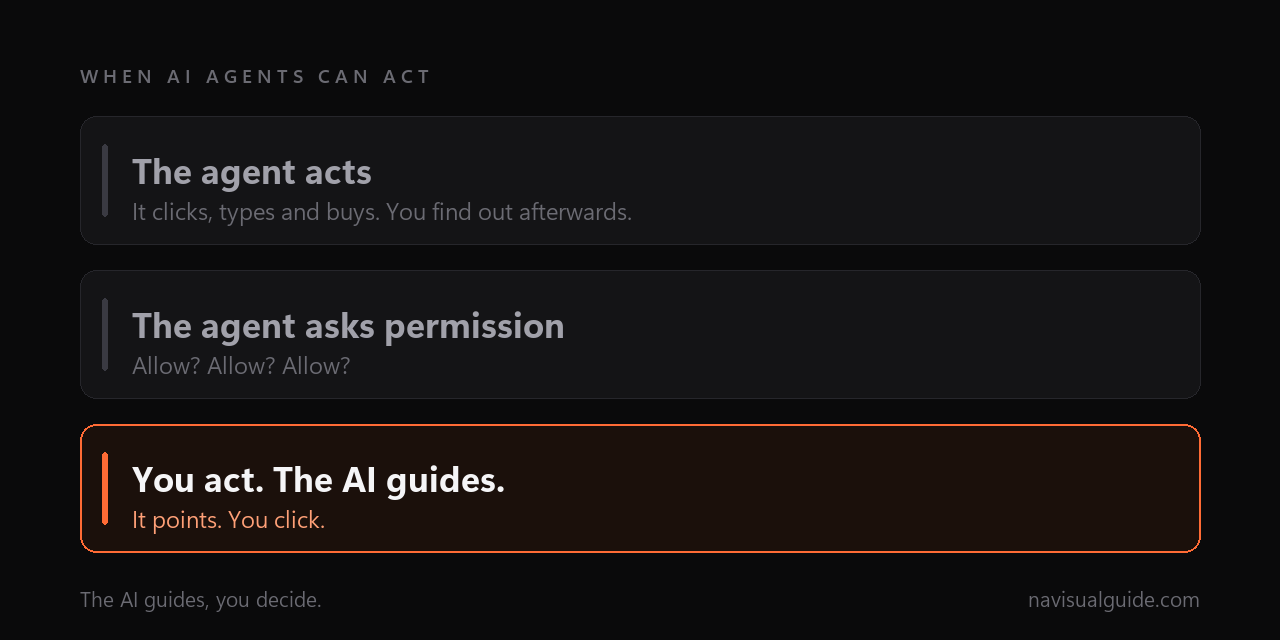
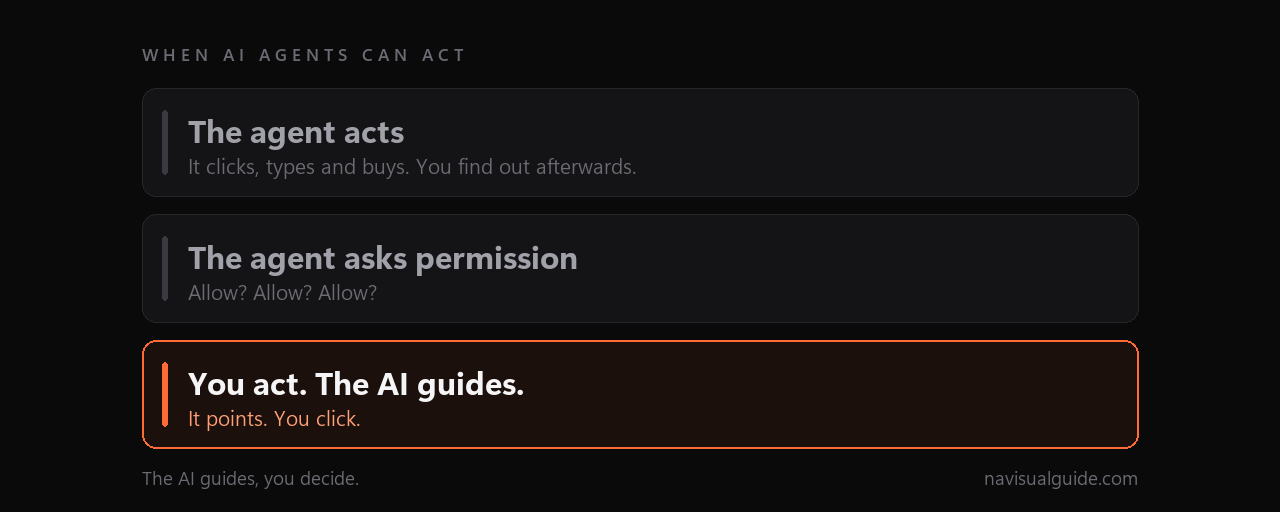
fix(guides): the hero was drawn for a frame the site does not have
The listing thumbnail is `aspect-ratio: 5/2` with `object-fit: cover;
object-position: center top`. That is the right rule for a screenshot --
the top of the frame is where the open dialog and the highlighted control
are -- but the hero was 2:1, so the listing cut the bottom 20%, and the
bottom 20% was the lit row. The picture lost the one thing it was drawn
to say.

The canvas is now 5:2, the thumbnail frame exactly, so nothing is cropped.

hero_image also feeds og:image and twitter:image, and X centre-crops
anything wider than 2:1 back to 2:1, which on a 5:2 canvas takes 128px off
each side. All content now sits inside that safe width, so the share card
loses margin and nothing else. Both crops verified by rendering them.

diff --git a/tools/make-hero.py b/tools/make-hero.py
@@ -2,17 +2,31 @@
 
 Draws the argument the essay makes, which is the three positions: the agent
 acts, the agent asks permission, or you act and the AI guides. Two greyed, one
-lit. Site palette, 1280x640 to match social-preview.png.
+lit. Site palette.
+
+TWO CROPS DECIDE THE GEOMETRY, and the first version ignored both.
+
+  1. The listing thumbnail (.guide-thumb img, style.css) is `aspect-ratio: 5/2`
+     with `object-fit: cover; object-position: center top`. That is right for a
+     screenshot, where the top of the frame is the action. On a 2:1 image it ate
+     the bottom 20%, which here is the lit row -- the whole point of the picture.
+     So the canvas IS 5:2. Nothing is cropped on the listing.
+
+  2. hero_image also feeds og:image and twitter:image. X center-crops anything
+     wider than 2:1 back to 2:1, which on a 5:2 canvas removes 128px from each
+     side. So all content stays inside SAFE_X, and the card loses only margin.
 
 Run: python tools/make-hero.py  (needs Pillow; uses the Windows Segoe UI
 variable font, whose named instances are "Bold Text" etc., not "Bold" --
-set_variation_by_name fails SILENTLY on a wrong name, so the axes are set
-directly instead.)
+set_variation_by_name fails SILENTLY on a wrong name, so every weight renders
+at 400 and the hierarchy quietly vanishes. The axes are set directly instead.)
 """
 import os
 from PIL import Image, ImageDraw, ImageFont
 
-W, H = 1280, 640
+W, H = 1280, 512          # 5:2, the thumbnail frame exactly
+SAFE = 128 + 14           # survives a centred 2:1 share-card crop, with margin
+
 BG = "#0a0a0b"
 SURFACE = "#141416"
 BORDER = "#26262b"
@@ -20,25 +34,27 @@ TEXT = "#f5f5f7"
 MUTED = "#a1a1aa"
 DIM = "#6b6b73"
 ACCENT = "#ff6b35"
+ACCENT_SOFT = "#ffa077"
+LIT_FILL = "#1b100b"
 
-FONT = r"C:\Windows\Fonts\SegUIVar.ttf"
+FONT = "C:/Windows/Fonts/SegUIVar.ttf"
 
 
 def f(size, weight=400, optical=None):
-    """Weight 300-700, optical size 5-36. The named instances are "Bold Text"
-    etc., not "Bold", so setting them by name fails silently -- axes are set
-    directly instead."""
+    """Weight 300-700, optical size 5-36."""
     ft = ImageFont.truetype(FONT, size)
-    ft.set_variation_by_axes([weight, optical if optical else min(36, max(5, size // 2))])
+    ft.set_variation_by_axes([weight, optical or min(36, max(5, size // 2))])
     return ft
 
 
 img = Image.new("RGB", (W, H), BG)
 d = ImageDraw.Draw(img)
 
+x0, x1 = SAFE, W - SAFE
+
 # --- eyebrow -----------------------------------------------------------------
-eyebrow = "W H E N   A I   A G E N T S   C A N   A C T"
-d.text((80, 62), eyebrow, font=f(19, 600, 10), fill=DIM)
+d.text((x0, 42), "W H E N   A I   A G E N T S   C A N   A C T",
+       font=f(17, 600, 10), fill=DIM)
 
 # --- the three positions -----------------------------------------------------
 ROWS = [
@@ -50,30 +66,26 @@ ROWS = [
      "It points. You click.", True),
 ]
 
-x0, x1 = 80, W - 80
-top, row_h, gap = 116, 128, 26
+top, row_h, gap = 88, 108, 18
 
 for i, (title, sub, lit) in enumerate(ROWS):
     y0 = top + i * (row_h + gap)
     y1 = y0 + row_h
     if lit:
-        d.rounded_rectangle([x0, y0, x1, y1], 16, fill="#1b100b", outline=ACCENT, width=2)
-        bar = ACCENT
-        tcol, scol = TEXT, "#ffa077"
+        d.rounded_rectangle([x0, y0, x1, y1], 14, fill=LIT_FILL, outline=ACCENT, width=2)
+        bar, tcol, scol = ACCENT, TEXT, ACCENT_SOFT
     else:
-        d.rounded_rectangle([x0, y0, x1, y1], 16, fill=SURFACE, outline=BORDER, width=1)
-        bar = "#3a3a42"
-        tcol, scol = MUTED, DIM
-    # left accent bar
-    d.rounded_rectangle([x0 + 22, y0 + 28, x0 + 27, y1 - 28], 3, fill=bar)
-    d.text((x0 + 52, y0 + 30), title, font=f(35, 680, 20), fill=tcol)
-    d.text((x0 + 52, y0 + 78), sub, font=f(24, 380, 14), fill=scol)
+        d.rounded_rectangle([x0, y0, x1, y1], 14, fill=SURFACE, outline=BORDER, width=1)
+        bar, tcol, scol = "#3a3a42", MUTED, DIM
+    d.rounded_rectangle([x0 + 20, y0 + 22, x0 + 25, y1 - 22], 3, fill=bar)
+    d.text((x0 + 46, y0 + 20), title, font=f(32, 680, 20), fill=tcol)
+    d.text((x0 + 46, y0 + 63), sub, font=f(21, 380, 13), fill=scol)
 
 # --- footer ------------------------------------------------------------------
+ft = f(19, 380, 12)
 foot = "navisualguide.com"
-ft = f(21, 380, 12)
-d.text((x1 - d.textlength(foot, font=ft), H - 56), foot, font=ft, fill=DIM)
-d.text((x0, H - 56), "The AI guides, you decide.", font=f(21, 380, 12), fill=DIM)
+d.text((x0, H - 48), "The AI guides, you decide.", font=ft, fill=DIM)
+d.text((x1 - d.textlength(foot, font=ft), H - 48), foot, font=ft, fill=DIM)
 
 OUT = os.path.join(os.path.dirname(os.path.dirname(os.path.abspath(__file__))),
                    "images", "guides", "what-humans-are-still-for")
